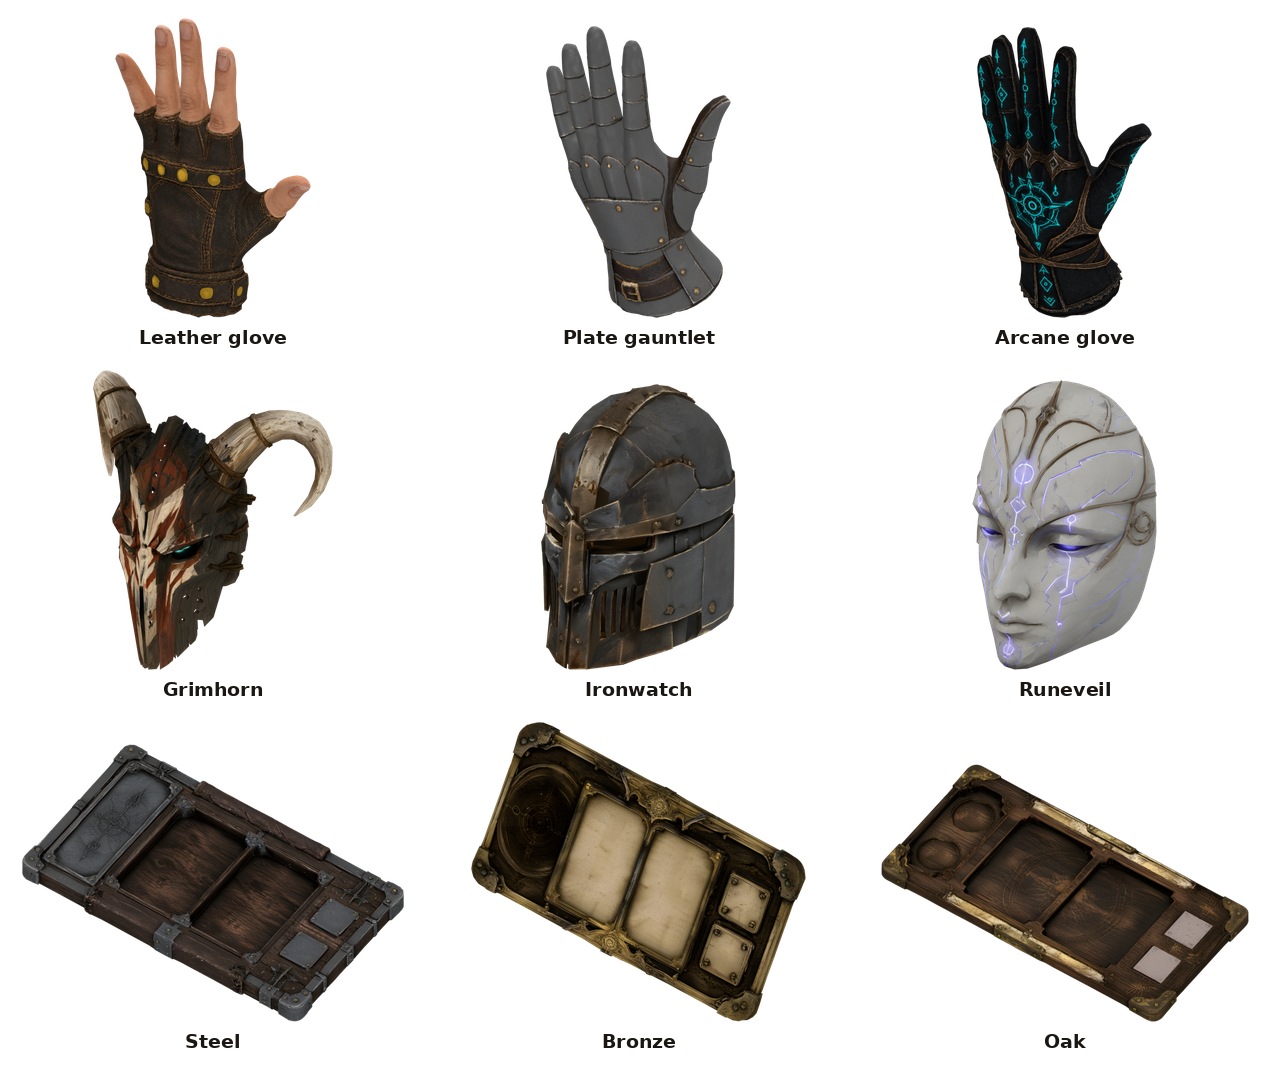
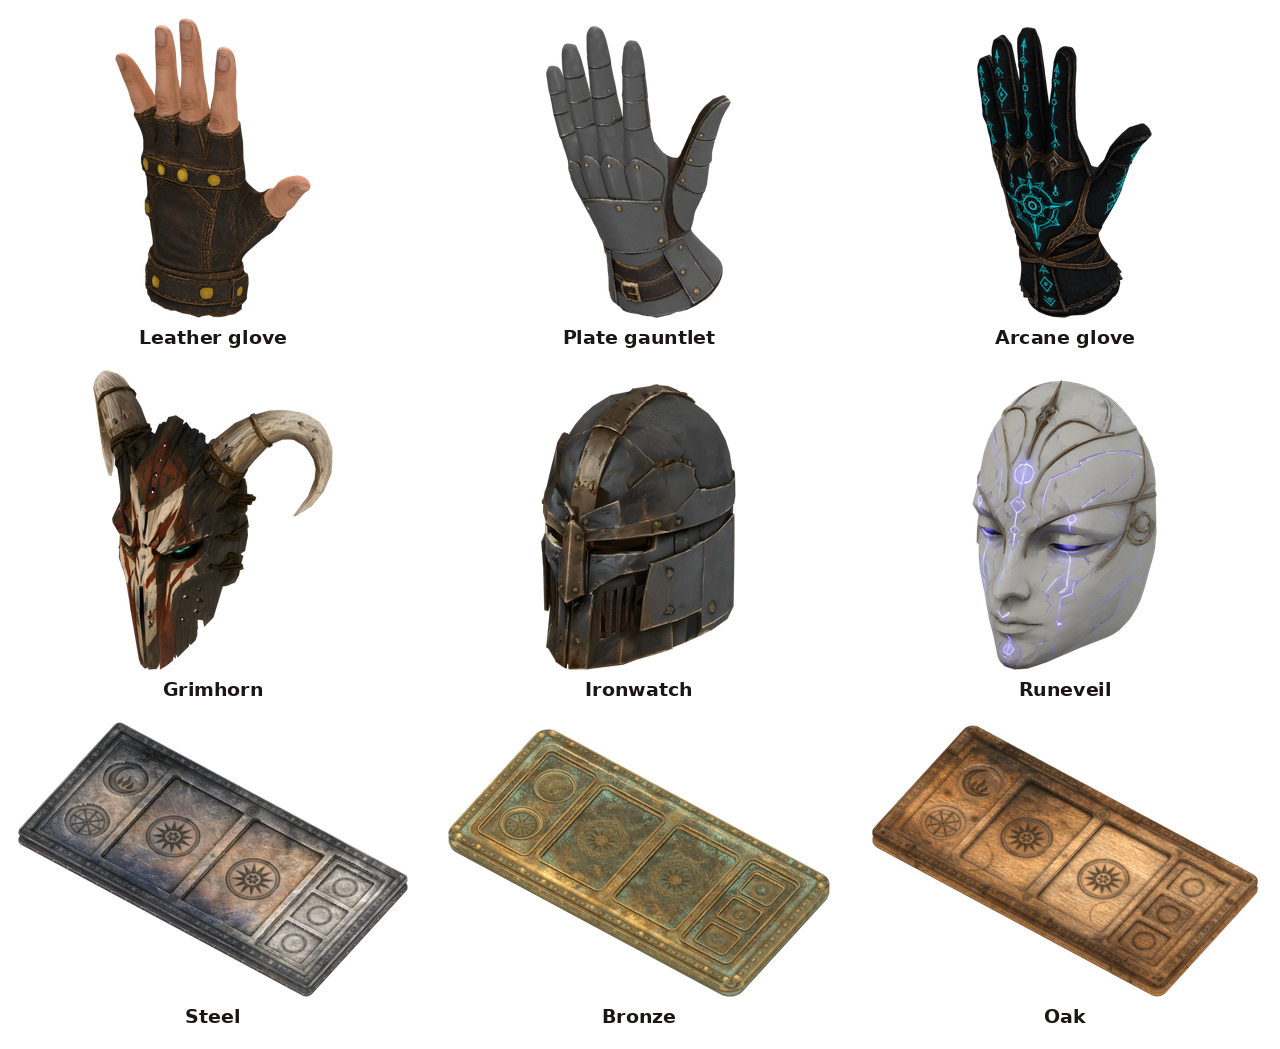
docs(readme): his badge header, two broken things fixed, and the boards re-rendered
His adapted README (7842c10b on boards-texture-rework) brought onto dev, plus the
asset strips re-rendered from the current bundle. No code, no bundle, no ModBuild
bump — this is documentation.

THE VERSION BADGE READS 1.0.0 ON PURPOSE and is not a mistake to be corrected: it
is the version being worked TOWARDS, the one that will be published first. Left
exactly as he wrote it. (The assembly is 0.1.1.0 and NetProtocol.ModBuild is the
build counter; neither is what that badge is about.)

TWO THINGS WERE ACTUALLY BROKEN, not just misspelt:

  * The licence badge linked to LICENCE. The file is LICENSE — the credits section
    at the bottom already spelt it correctly, so the page had it both ways and the
    first one 404'd.
  * Two different badges both carried alt="Version", and the BepInEx badge's alt
    text said "Platform". Alt text is what a screen reader announces, so three
    badges were announcing the wrong thing or the same thing.

SPELLING: "controlls" -> "controls", "Enviroments" -> "Environments",
"community made" -> "community-made" (compound adjective), a trailing space after
the tagline, and "Gloomhaven (digital)" in Requirements aligned to "(Digital)" as
he capitalised it in the tagline above.

Every local link and image path now resolves — checked mechanically, including the
#known-limitations anchor against docs/PLAYING.md's own heading.

THE RENDERS: styles-boards.png and styles.png rebuilt through
[…]

diff --git a/README.md b/README.md
@@ -3,9 +3,23 @@
 </p>
 
 <p align="center">
-  A room-scale VR mod for <b>Gloomhaven (digital)</b> on PC.<br>
-  The scenario becomes a diorama on a table you stand at, played with tracked hands.<br>
-  Rules, saves and campaign progress stay the game's own.
+  <a href="LICENSE">
+    <img src="https://img.shields.io/badge/License-GPL_v3-blue.svg" alt="License: GPL v3">
+  </a>
+  <a href="https://github.com/BepInEx/BepInEx/releases/tag/v5.4.23.5">
+    <img src="https://img.shields.io/badge/ModLoader-BepInEx 5.4.23.5-orange.svg" alt="Mod loader: BepInEx 5.4.23.5">
+  </a>
+  <a href="https://steamdb.info/app/780290/patchnotes/">
+    <img src="https://img.shields.io/badge/Supported Game version-1.1.8323.0-yellow.svg" alt="Supported game version">
+  </a>
+  <a>
+    <img src="https://img.shields.io/badge/version-1.0.0-7c3aed.svg" alt="Mod version">
+  </a>
+</p>
+
+<p align="center">
+  A community-made VR mod for <a href="https://store.steampowered.com/app/780290/Gloomhaven/"><b>Gloomhaven (Digital)</b></a>.<br>
+  Demeo-like motion controls, fully integrated VR Multiplayer, Custom Environments, Mixed Reality …
 </p>
 
 <p align="center">
@@ -15,10 +29,6 @@
 </p>
 
 ---
-
-**Multiplayer** is supported for the whole session. Every VR player has a mask, hands and their own
-control board; lifted miniatures, moved windows and pointing fingers are visible to everyone.
-Players without a headset join the same game on a flat screen.
 
 ### Your cards and your board
 
@@ -38,7 +48,13 @@ Players without a headset join the same game on a flat screen.
 </tr>
 </table>
 
-## Assets
+### Full VR Multiplayer
+
+Every VR player has a mask, hands and their own
+control board; lifted miniatures, moved windows and pointing fingers are visible to everyone.
+Players without a headset join the same game on a flat screen.
+
+## Mod Assets
 
 Three pairs of hands, three masks, three control boards. One dropdown each, changeable mid-session,
 and the other players see the choice. All modelled for this project.
@@ -57,7 +73,12 @@ project, both with firelight, ambient sound and rare events, each with its own s
   <img src="docs/img/env-forest.jpg" width="345" alt="The night forest">
 </p>
 
-The rooms react to the scenario's element infusions, at the edges rather than over the play area.
+**Mixed reality** replaces the sky with a chroma-key colour so the board can be composited over your
+real room; the built rooms switch off while it is on.
+
+### Elemental changes
+
+<b>The rooms react to the scenario's element infusions</b>, at the edges rather than over the play area.
 Fire lights the room and sets props burning, Ice grows frost, Air moves flames and foliage, Earth
 brings up growth, Light lifts the ambient level and Dark lowers it and eclipses the moon.
 
@@ -66,12 +87,9 @@ brings up growth, Light lifts the ambient level and Dark lowers it and eclipses 
   <i>Same camera, element off left and on right.</i>
 </p>
 
-**Mixed reality** replaces the sky with a chroma-key colour so the board can be composited over your
-real room; the built rooms switch off while it is on.
-
 ## Requirements
 
-**Gloomhaven (digital)** for PC (Steam or GOG) · a Windows PC that runs it · a PC-VR headset with
+**Gloomhaven (Digital)** for PC (Steam or GOG) · a Windows PC that runs it · a PC-VR headset with
 two tracked controllers · room-scale or standing. Developed on a **Quest 3 over Virtual Desktop**.
 
 Installation is two archives into the game folder. **[→ Install guide](INSTALL.md)**
@@ -85,8 +103,6 @@ Installation is two archives into the game folder. **[→ Install guide](INSTALL
   (GPL-3.0) — the VR startup pattern, headset failover and finger curling this mod adapts.
 - **[UUVR](https://github.com/Raicuparta/uuvr)** (GPL-3.0) — the flat-screen-in-VR pattern used
   where a world panel is not the right answer.
-- **[SteamVR Unity Plugin](https://github.com/ValveSoftware/steamvr_unity_plugin)** by Valve
-  (BSD-3-Clause) — the base hand models.
 - **Demeo** (Resolution Games) — the interaction model this mod follows. No assets or code from it
   are used.
 - The hands, the masks, the boards and the other built 3D assets were made for this project by its
